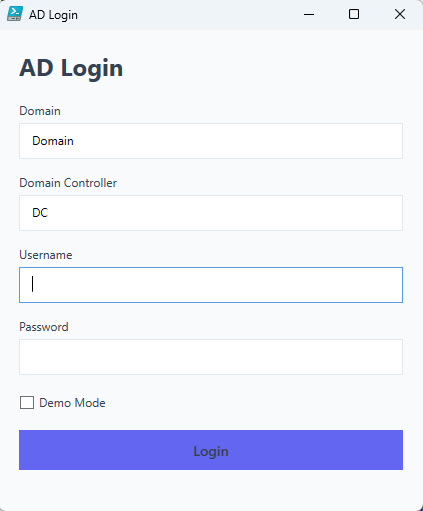
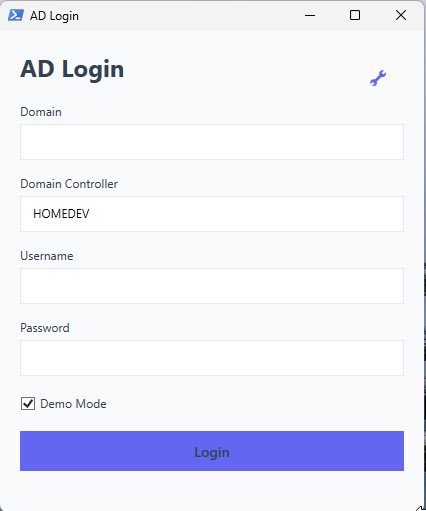
Settings page
Added settings page - not fully implemented yet. Saving and demo mode have been coupled

diff --git a/XAML/SettingsWindow.xaml b/XAML/SettingsWindow.xaml
@@ -1,0 +1,100 @@
+<Window xmlns="http://schemas.microsoft.com/winfx/2006/xaml/presentation"
+        xmlns:x="http://schemas.microsoft.com/winfx/2006/xaml"
+        Title="Settings" 
+        Height="500" 
+        Width="800"
+        WindowStartupLocation="CenterScreen"
+        Background="$($colors.Background)">
+    <Grid Margin="20">
+        <Grid.RowDefinitions>
+            <RowDefinition Height="Auto"/>
+            <RowDefinition Height="*"/>
+            <RowDefinition Height="Auto"/>
+        </Grid.RowDefinitions>
+
+        <TextBlock Text="Application Settings" 
+                  FontSize="24" 
+                  FontWeight="Bold" 
+                  Foreground="$($colors.Primary)"
+                  Margin="0,0,0,20"/>
+
+        <ScrollViewer Grid.Row="1">
+            <StackPanel>
+                <GroupBox Header="General Settings" 
+                         Margin="0,0,0,15"
+                         BorderBrush="$($colors.BorderColor)">
+                    <StackPanel Margin="10">
+                        <CheckBox Name="chkDemoMode" 
+                                 Content="Demo Mode" 
+                                 Foreground="$($colors.Text)"
+                                 Margin="0,0,0,10"/>
+                        <CheckBox Name="chkUseADModule" 
+                                 Content="Use AD Module" 
+                                 Foreground="$($colors.Text)"
+                                 Margin="0,0,0,10"/>
+                        <TextBlock Text="Default Domain:"
+                                 Foreground="$($colors.Text)"/>
+                        <TextBox Name="txtDefaultDomain" 
+                                Background="$($colors.InputBg)"
+                                BorderBrush="$($colors.BorderColor)"
+                                Margin="0,5,0,15"/>
+                        <TextBlock Text="Auto-Reply Template:"
+                                 Foreground="$($colors.Text)"/>
+                        <TextBox Name="txtAutoReplyTemplate" 
+                                TextWrapping="Wrap"
+                                AcceptsReturn="True"
+                                Height="100"
+                                Background="$($colors.InputBg)"
+                                BorderBrush="$($colors.BorderColor)"
+                                Margin="0,5,0,15"/>
+                    </StackPanel>
+                </GroupBox>
+
+                <TextBlock Name="txtSettingsStatus" 
+                          TextWrapping="Wrap" 
+                          Foreground="$($colors.Success)"
+                          Margin="0,10"/>
+            </StackPanel>
+        </ScrollViewer>
+
+        <StackPanel Grid.Row="2" 
+                    Orientation="Horizontal" 
+                    HorizontalAlignment="Right">
+            <Button Name="btnSaveSettings" 
+                    Content="Save" 
+                    Width="100" 
+                    Height="30"
+                    Background="$($colors.Secondary)"
+                    Foreground="$($colors.InputBg)"
+                    BorderThickness="0"
+                    Margin="0,0,10,0">
+                <Button.Style>
+                    <Style TargetType="Button">
+                        <Style.Triggers>
+                            <Trigger Property="IsMouseOver" Value="True">
+                                <Setter Property="Background" Value="$($colors.Hover)"/>
+                            </Trigger>
+                        </Style.Triggers>
+                    </Style>
+                </Button.Style>
+            </Button>
+            <Button Name="btnClose" 
+                    Content="Close" 
+                    Width="100"
+                    Height="30"
+                    Background="$($colors.Primary)"
+                    Foreground="$($colors.InputBg)"
+                    BorderThickness="0">
+                <Button.Style>
+                    <Style TargetType="Button">
+                        <Style.Triggers>
+                            <Trigger Property="IsMouseOver" Value="True">
+                                <Setter Property="Background" Value="$($colors.Text)"/>
+                            </Trigger>
+                        </Style.Triggers>
+                    </Style>
+                </Button.Style>
+            </Button>
+        </StackPanel>
+    </Grid>
+</Window>

diff --git a/XAML/LoginWindow.xaml b/XAML/LoginWindow.xaml
@@ -58,6 +58,30 @@
                   FontWeight="Bold" 
                   Margin="0,0,0,20"
                   Foreground="$($colors.Text)"/>
+        <Button Name="btnSettings" 
+                Width="32" 
+                Height="32"
+                ToolTip="Settings"
+                HorizontalAlignment="Right"
+                VerticalAlignment="Top"
+                Margin="0,10,10,0"
+                Background="$($colors.Background)"
+                BorderThickness="0">
+            <TextBlock 
+                Text="🔧"
+                FontFamily="Segoe UI Symbol"
+                FontSize="16"
+                Foreground="$($colors.Secondary)"/>
+            <Button.Style>
+                <Style TargetType="Button">
+                    <Style.Triggers>
+                        <Trigger Property="IsMouseOver" Value="True">
+                            <Setter Property="Background" Value="$($colors.Hover)"/>
+                        </Trigger>
+                    </Style.Triggers>
+                </Style>
+            </Button.Style>
+        </Button>
 
         <Grid Grid.Row="1">
             <Grid.RowDefinitions>

diff --git a/README.md b/README.md
@@ -25,6 +25,7 @@ The tool automatically adapts to your system architecture:
 - 🎯 Demo mode for testing and training
 - 📝 Activity logging and audit trails
 - 🔄 Real-time task execution feedback
+- ⚙ Settings Page: easy configuration
 
 ### On-Premises Features
 - Disable AD accounts
@@ -81,6 +82,11 @@ Screenshots may be outdated due to continuous development!
     <p><em>Reporting</em></p>
 </div>
 
+<div align="center">
+    <img src="./Docs/Images/Settings.png" alt="Settings Screen" width="400"/>
+    <p><em>Settings</em></p>
+</div>
+
 ## Prerequisites
 - Windows PowerShell 5.1 or later
 - One of the following:
@@ -120,6 +126,7 @@ cd ADUserOffboarding
 These items might change the scope of this project
 ### General functionality
 - [ ] (bulk)Creation of user
+- [x] Settings page
 ### Teams & SharePoint
 - [x] Remove from Teams groups
 - [x] Transfer Teams ownership
@@ -261,11 +268,15 @@ Feel free to submit issues, fork the repository and create pull requests for any
 │   │   ├── O365Handlers.ps1
 │   │   ├── ReportHandlers.ps1
 │   │   ├── XAMLHelper.ps1
+│   │   ├── Show-SettingsWindow.ps1
+│   │   ├── SettingsHandler.ps1
 │   │   └── EasterEgg.ps1
 │   └── Logging/
 │       └── Write-ActivityLog.ps1
 ├── XAML/
+│   ├── LoadingWindow.xaml
 │   ├── LoginWindow.xaml
+│   ├── SettingsWindow.xaml
 │   └── MainWindow.xaml
 ├── Logs/
 │   └── error_log.txt
